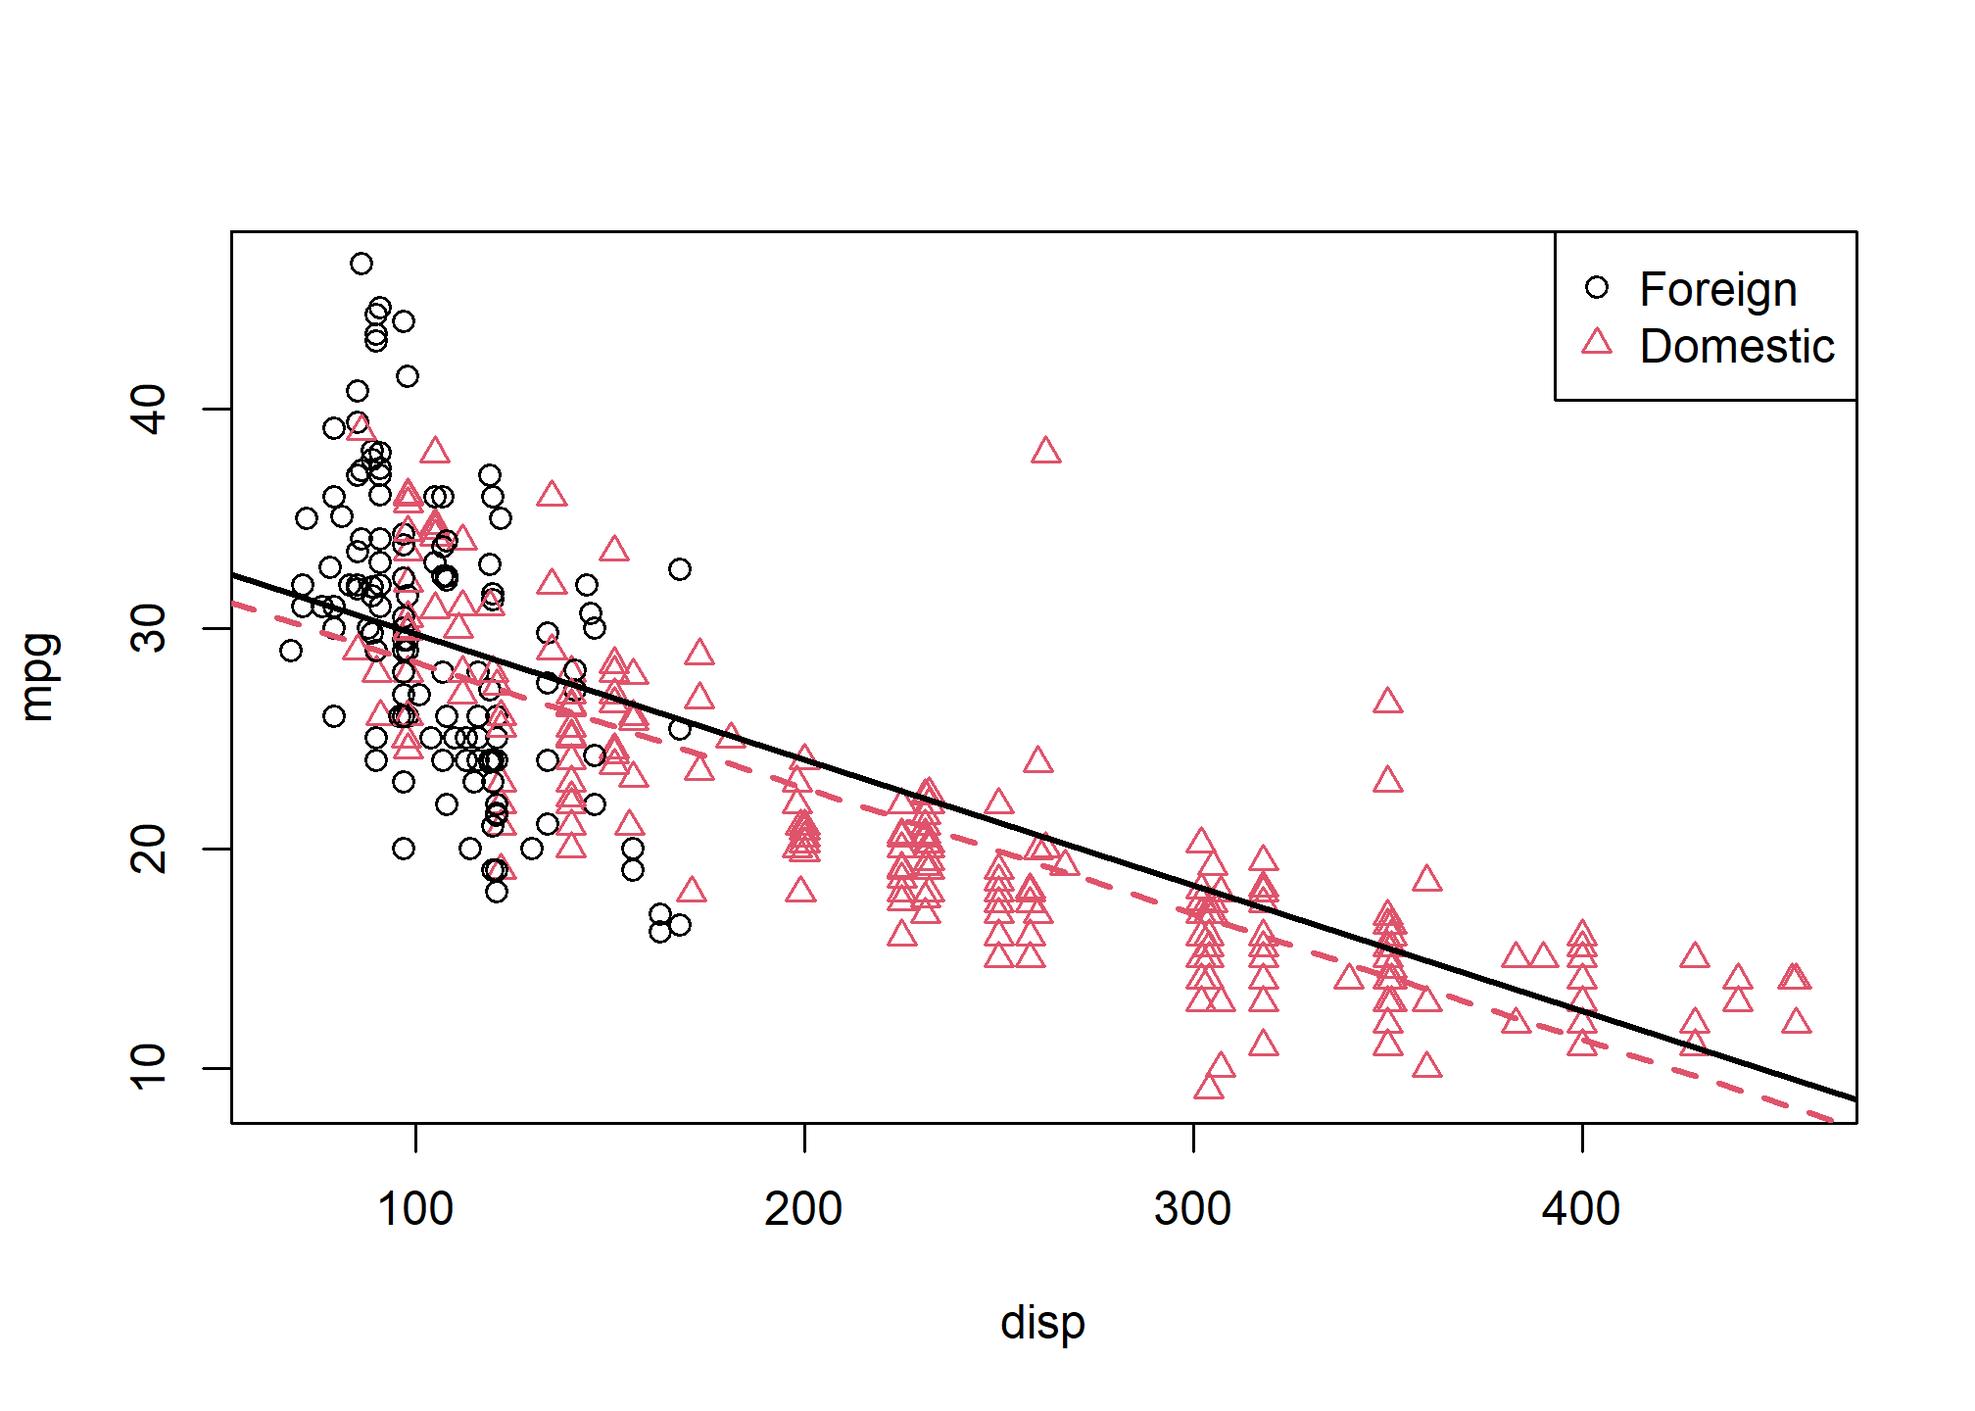
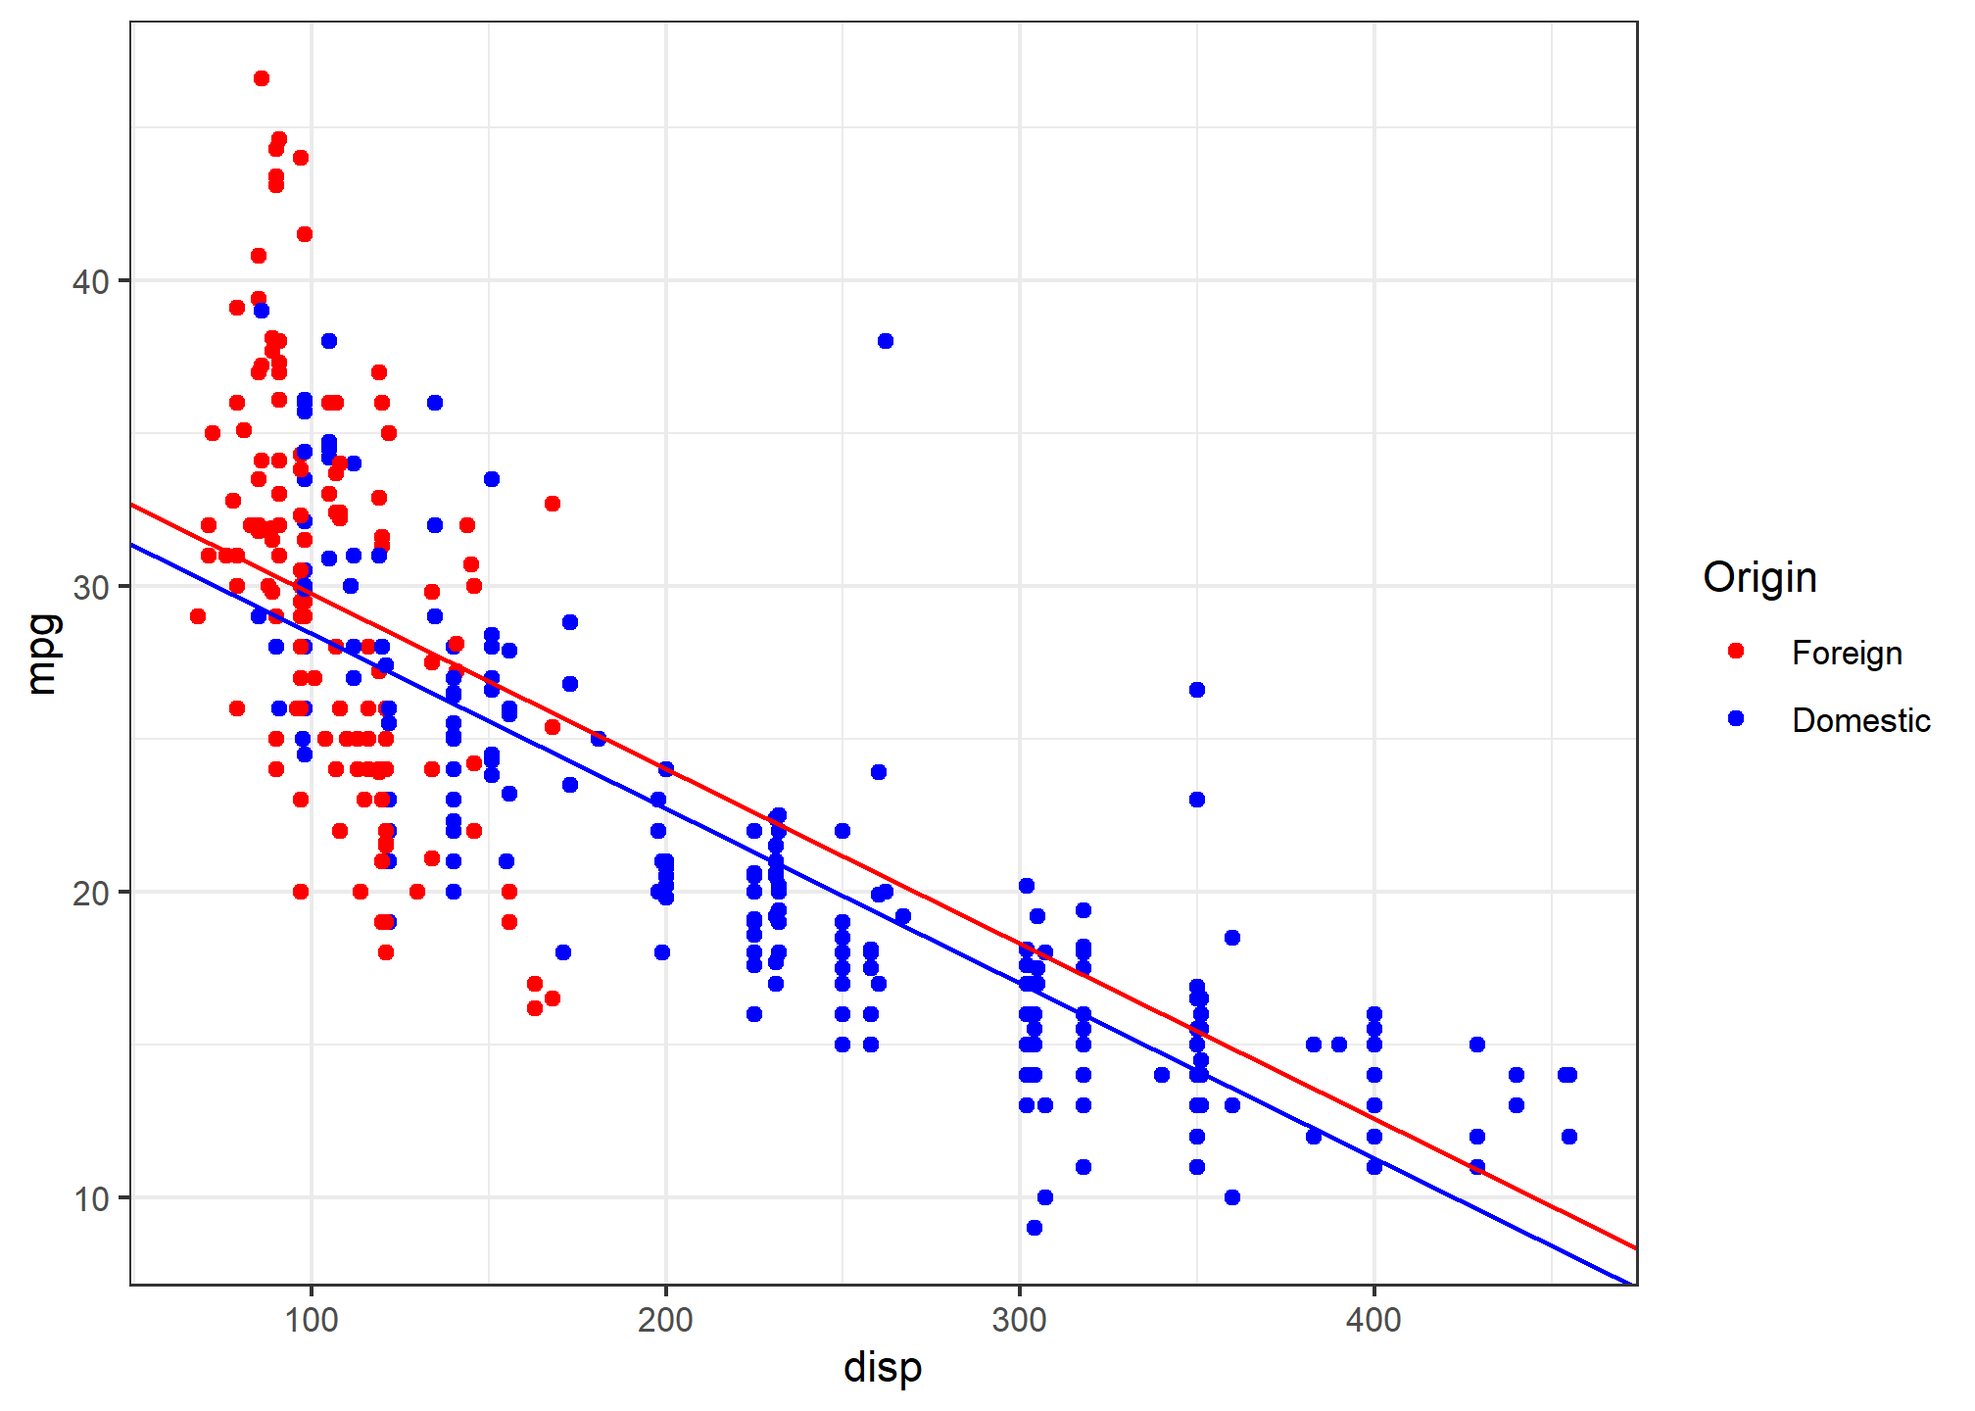
Update ex 06

diff --git a/content/example/06-example.html b/content/example/06-example.html
@@ -14,13 +14,15 @@ editor_options:
   chunk_output_type: console
 ---
 
+<script src="/rmarkdown-libs/header-attrs/header-attrs.js"></script>
 
 <div id="TOC">
 <ul>
 <li><a href="#preliminaries">Preliminaries</a></li>
 <li><a href="#dummy-variables">Dummy Variables</a></li>
 <li><a href="#interactions">Interactions</a></li>
-<li><a href="#factor-variables">Factor Variables</a><ul>
+<li><a href="#factor-variables">Factor Variables</a>
+<ul>
 <li><a href="#factors-with-more-than-two-levels">Factors with More Than Two Levels</a></li>
 </ul></li>
 <li><a href="#parameterization">Parameterization</a></li>
@@ -41,7 +43,16 @@ editor_options:
 </div>
 <div id="dummy-variables" class="section level2">
 <h2>Dummy Variables</h2>
-<p>For this example and discussion, we will briefly use the built in dataset <code>mtcars</code> before returning to our favorite <code>autompg</code> dataset. During the in-class lecture / example, I will also use much more interesting datasets. The reason to use these easy, straightforward datasets is that they make visualization of the <strong>entire dataset</strong> trivially easy. Accordingly, the <code>mtcars</code> dataset is small, so we’ll quickly take a look at the entire dataset.</p>
+<p>For this example and discussion, we will briefly use the built in dataset <code>mtcars</code> before introducing the <code>autompg</code> dataset. The reason to use these easy, straightforward datasets is that they make visualization of the <strong>entire dataset</strong> trivially easy. Accordingly, the <code>mtcars</code> dataset is small, so we’ll quickly take a look at the entire dataset.</p>
+<pre class="r"><code>library(tidyverse)</code></pre>
+<pre><code>## -- Attaching packages --------------------------------------- tidyverse 1.3.1 --</code></pre>
+<pre><code>## v ggplot2 3.3.5     v purrr   0.3.4
+## v tibble  3.1.6     v dplyr   1.0.8
+## v tidyr   1.2.0     v stringr 1.4.0
+## v readr   2.1.2     v forcats 0.5.1</code></pre>
+<pre><code>## -- Conflicts ------------------------------------------ tidyverse_conflicts() --
+## x dplyr::filter() masks stats::filter()
+## x dplyr::lag()    masks stats::lag()</code></pre>
 <pre class="r"><code>mtcars</code></pre>
 <pre><code>##                      mpg cyl  disp  hp drat    wt  qsec vs am gear carb
 ## Mazda RX4           21.0   6 160.0 110 3.90 2.620 16.46  0  1    4    4
@@ -192,7 +203,7 @@ Y = \beta_0 + \beta_1 x_1 + \beta_2 x_2 + \epsilon,
 </div>
 <div id="interactions" class="section level2">
 <h2>Interactions</h2>
-<p>To remove the “same slope” restriction, we will now discuss <strong>interaction</strong>. To illustrate this concept, we will return to the <code>autompg</code> dataset we created in the last chapter, with a few more modifications.</p>
+<p>To remove the “same slope” restriction, we will now discuss <strong>interactions</strong>. To illustrate this concept, we will use the <code>autompg</code> dataset with a few modifications.</p>
 <pre class="r"><code># read data frame from the web
 autompg = read.table(
   &quot;http://archive.ics.uci.edu/ml/machine-learning-databases/auto-mpg/auto-mpg.data&quot;,
@@ -201,27 +212,16 @@ autompg = read.table(
   stringsAsFactors = FALSE)
 # give the dataframe headers
 colnames(autompg) = c(&quot;mpg&quot;, &quot;cyl&quot;, &quot;disp&quot;, &quot;hp&quot;, &quot;wt&quot;, &quot;acc&quot;, &quot;year&quot;, &quot;origin&quot;, &quot;name&quot;)
-# remove missing data, which is stored as &quot;?&quot;
-autompg = subset(autompg, autompg$hp != &quot;?&quot;)
-# remove the plymouth reliant, as it causes some issues
-autompg = subset(autompg, autompg$name != &quot;plymouth reliant&quot;)
-# give the dataset row names, based on the engine, year and name
-rownames(autompg) = paste(autompg$cyl, &quot;cylinder&quot;, autompg$year, autompg$name)
-# remove the variable for name
-autompg = subset(autompg, select = c(&quot;mpg&quot;, &quot;cyl&quot;, &quot;disp&quot;, &quot;hp&quot;, &quot;wt&quot;, &quot;acc&quot;, &quot;year&quot;, &quot;origin&quot;))
-# change horsepower from character to numeric
-autompg$hp = as.numeric(autompg$hp)
-# create a dummary variable for foreign vs domestic cars. domestic = 1.
-autompg$domestic = as.numeric(autompg$origin == 1)
-# remove 3 and 5 cylinder cars (which are very rare.)
-autompg = autompg[autompg$cyl != 5,]
-autompg = autompg[autompg$cyl != 3,]
-# the following line would verify the remaining cylinder possibilities are 4, 6, 8
-#unique(autompg$cyl)
-# change cyl to a factor variable
-autompg$cyl = as.factor(autompg$cyl)</code></pre>
+
+
+autompg = autompg %&gt;%
+  filter(hp !=&#39;?&#39; &amp; name !=&#39;plymouth reliant&#39;) %&gt;% # the reliant causes some issues
+  mutate(hp = as.numeric(hp),
+         domestic = as.numeric(origin==1)) %&gt;%
+  filter(!cyl %in% c(5,3)) %&gt;%
+  mutate(cyl = as.factor(cyl))</code></pre>
 <pre class="r"><code>str(autompg)</code></pre>
-<pre><code>## &#39;data.frame&#39;:    383 obs. of  9 variables:
+<pre><code>## &#39;data.frame&#39;:    383 obs. of  10 variables:
 ##  $ mpg     : num  18 15 18 16 17 15 14 14 14 15 ...
 ##  $ cyl     : Factor w/ 3 levels &quot;4&quot;,&quot;6&quot;,&quot;8&quot;: 3 3 3 3 3 3 3 3 3 3 ...
 ##  $ disp    : num  307 350 318 304 302 429 454 440 455 390 ...
@@ -230,6 +230,7 @@ autompg$cyl = as.factor(autompg$cyl)</code></pre>
 ##  $ acc     : num  12 11.5 11 12 10.5 10 9 8.5 10 8.5 ...
 ##  $ year    : int  70 70 70 70 70 70 70 70 70 70 ...
 ##  $ origin  : int  1 1 1 1 1 1 1 1 1 1 ...
+##  $ name    : chr  &quot;chevrolet chevelle malibu&quot; &quot;buick skylark 320&quot; &quot;plymouth satellite&quot; &quot;amc rebel sst&quot; ...
 ##  $ domestic: num  1 1 1 1 1 1 1 1 1 1 ...</code></pre>
 <p>We’ve removed cars with <code>3</code> and <code>5</code> cylinders , as well as created a new variable <code>domestic</code> which indicates whether or not a car was built in the United States. Removing the <code>3</code> and <code>5</code> cylinders is simply for ease of demonstration later in the chapter and would not be done in practice. The new variable <code>domestic</code> takes the value <code>1</code> if the car was built in the United States, and <code>0</code> otherwise, which we will refer to as “foreign.” (We are arbitrarily using the United States as the reference point here.) We have also made <code>cyl</code> and <code>origin</code> into factor variables, which we will discuss later.</p>
 <p>We’ll now be concerned with three variables: <code>mpg</code>, <code>disp</code>, and <code>domestic</code>. We will use <code>mpg</code> as the response. We can fit a model,</p>
@@ -250,18 +251,23 @@ x_2 =
   \end{cases}
 \]</span></p>
 <p>We will fit this model, extract the slope and intercept for the “two lines,” plot the data and add the lines.</p>
-<pre class="r"><code>mpg_disp_add = lm(mpg ~ disp + domestic, data = autompg)
+<pre class="r"><code>mpg_disp_add = lm(mpg ~ disp + as.factor(domestic), data = autompg)
 
 int_for = coef(mpg_disp_add)[1]
 int_dom = coef(mpg_disp_add)[1] + coef(mpg_disp_add)[3]
 
 slope_for = coef(mpg_disp_add)[2]
-slope_dom = coef(mpg_disp_add)[2]
+slope_dom = coef(mpg_disp_add)[2] #--&gt; same slope!
 
-plot(mpg ~ disp, data = autompg, col = domestic + 1, pch = domestic + 1)
-abline(int_for, slope_for, col = 1, lty = 1, lwd = 2) # add line for foreign cars
-abline(int_dom, slope_dom, col = 2, lty = 2, lwd = 2) # add line for domestic cars
-legend(&quot;topright&quot;, c(&quot;Foreign&quot;, &quot;Domestic&quot;), pch = c(1, 2), col = c(1, 2))</code></pre>
+ggplot(autompg, aes(x = disp, y = mpg, col = as.factor(domestic))) + 
+  geom_point() +
+  geom_abline(intercept = int_dom, 
+              slope = slope_dom, col = &#39;blue&#39;) +
+  geom_abline(intercept = int_for,
+              slope = slope_for, col = &#39;red&#39;) +
+  labs(color = &#39;Origin&#39;) +
+  scale_color_manual(labels = c(&#39;Foreign&#39;,&#39;Domestic&#39;), values = c(&#39;red&#39;,&#39;blue&#39;)) +
+  theme_bw()</code></pre>
 <p><img src="/example/06-example_files/figure-html/unnamed-chunk-14-1.png" width="672" /></p>
 <p>This is a model that allows for two <em>parallel</em> lines, meaning the <code>mpg</code> can be different on average between foreign and domestic cars of the same engine displacement, but the change in average <code>mpg</code> for an increase in displacement is the same for both. We can see this model isn’t doing very well here. The red line fits the red points fairly well, but the black line isn’t doing very well for the black points, it should clearly have a more negative slope. Essentially, we would like a model that allows for two different slopes.</p>
 <p>Consider the following model,</p>
@@ -327,29 +333,22 @@ do_not_do_this = lm(mpg ~ disp + domestic + x3, data = autompg) # THIS CODE NOT 
 H_0: \beta_3 = 0.
 \]</span></p>
 <p>In this case, testing for <span class="math inline">\(\beta_3 = 0\)</span> is testing for two lines with parallel slopes versus two lines with possibly different slopes. The <code>disp:domestic</code> line in the <code>summary()</code> output uses a <span class="math inline">\(t\)</span>-test to perform the test.</p>
-<p>We could also use an ANOVA <span class="math inline">\(F\)</span>-test. The additive model, without interaction is our null model, and the interaction model is the alternative.</p>
-<pre class="r"><code>anova(mpg_disp_add, mpg_disp_int)</code></pre>
-<pre><code>## Analysis of Variance Table
-## 
-## Model 1: mpg ~ disp + domestic
-## Model 2: mpg ~ disp + domestic + disp:domestic
-##   Res.Df    RSS Df Sum of Sq      F    Pr(&gt;F)    
-## 1    380 7714.0                                  
-## 2    379 7032.6  1    681.36 36.719 3.294e-09 ***
-## ---
-## Signif. codes:  0 &#39;***&#39; 0.001 &#39;**&#39; 0.01 &#39;*&#39; 0.05 &#39;.&#39; 0.1 &#39; &#39; 1</code></pre>
-<p>Again we see this test has the same p-value as the <span class="math inline">\(t\)</span>-test. Also the p-value is extremely low, so between the two, we choose the interaction model.</p>
 <pre class="r"><code>int_for = coef(mpg_disp_int)[1]
 int_dom = coef(mpg_disp_int)[1] + coef(mpg_disp_int)[3]
 
 slope_for = coef(mpg_disp_int)[2]
 slope_dom = coef(mpg_disp_int)[2] + coef(mpg_disp_int)[4]</code></pre>
 <p>Here we again calculate the slope and intercepts for the two lines for use in plotting.</p>
-<pre class="r"><code>plot(mpg ~ disp, data = autompg, col = domestic + 1, pch = domestic + 1)
-abline(int_for, slope_for, col = 1, lty = 1, lwd = 2) # line for foreign cars
-abline(int_dom, slope_dom, col = 2, lty = 2, lwd = 2) # line for domestic cars
-legend(&quot;topright&quot;, c(&quot;Foreign&quot;, &quot;Domestic&quot;), pch = c(1, 2), col = c(1, 2))</code></pre>
-<p><img src="/example/06-example_files/figure-html/unnamed-chunk-22-1.png" width="672" /></p>
+<pre class="r"><code>ggplot(autompg, aes(x = disp, y = mpg, col = as.factor(domestic))) + 
+  geom_point() +
+  geom_abline(intercept = int_dom, 
+              slope = slope_dom, col = &#39;blue&#39;) +
+  geom_abline(intercept = int_for,
+              slope = slope_for, col = &#39;red&#39;) +
+  labs(color = &#39;Origin&#39;) +
+  scale_color_manual(labels = c(&#39;Foreign&#39;,&#39;Domestic&#39;), values = c(&#39;red&#39;,&#39;blue&#39;)) +
+  theme_bw()</code></pre>
+<p><img src="/example/06-example_files/figure-html/unnamed-chunk-21-1.png" width="672" /></p>
 <p>We see that these lines fit the data much better, which matches the result of our tests.</p>
 <p>So far we have only seen interaction between a categorical variable (<code>domestic</code>) and a numerical variable (<code>disp</code>). While this is easy to visualize, since it allows for different slopes for two lines, it is not the only type of interaction we can use in a model. We can also consider interactions between two numerical variables.</p>
 <p>Consider the model,</p>
@@ -395,18 +394,8 @@ summary(mpg_disp_int_hp)</code></pre>
 <p><span class="math display">\[
 H_0: \beta_3 = 0.
 \]</span></p>
-<p>Again, we see a very low p-value so we reject the null (additive model) in favor of the interaction model. Again, there is an equivalent <span class="math inline">\(F\)</span>-test.</p>
-<pre class="r"><code>anova(mpg_disp_add_hp, mpg_disp_int_hp)</code></pre>
-<pre><code>## Analysis of Variance Table
-## 
-## Model 1: mpg ~ disp + hp
-## Model 2: mpg ~ disp * hp
-##   Res.Df    RSS Df Sum of Sq      F    Pr(&gt;F)    
-## 1    380 7576.6                                  
-## 2    379 5754.2  1    1822.3 120.03 &lt; 2.2e-16 ***
-## ---
-## Signif. codes:  0 &#39;***&#39; 0.001 &#39;**&#39; 0.01 &#39;*&#39; 0.05 &#39;.&#39; 0.1 &#39; &#39; 1</code></pre>
-<p>We can take a closer look at the coefficients of our fitted interaction model.</p>
+<p>Again, we see a very low p-value so we reject the null (additive model) in favor of the interaction model.
+We can take a closer look at the coefficients of our fitted interaction model.</p>
 <pre class="r"><code>coef(mpg_disp_int_hp)</code></pre>
 <pre><code>##   (Intercept)          disp            hp       disp:hp 
 ## 52.4081997848 -0.1001737655 -0.2198199720  0.0005658269</code></pre>
@@ -453,7 +442,7 @@ head(autompg$origin)</code></pre>
 <pre class="r"><code>autompg$origin = as.factor(autompg$origin)</code></pre>
 <p>Now when we check the structure of the <code>autompg</code> dataset, we see that <code>origin</code> is a factor variable.</p>
 <pre class="r"><code>str(autompg)</code></pre>
-<pre><code>## &#39;data.frame&#39;:    383 obs. of  9 variables:
+<pre><code>## &#39;data.frame&#39;:    383 obs. of  10 variables:
 ##  $ mpg     : num  18 15 18 16 17 15 14 14 14 15 ...
 ##  $ cyl     : Factor w/ 3 levels &quot;4&quot;,&quot;6&quot;,&quot;8&quot;: 3 3 3 3 3 3 3 3 3 3 ...
 ##  $ disp    : num  307 350 318 304 302 429 454 440 455 390 ...
@@ -462,6 +451,7 @@ head(autompg$origin)</code></pre>
 ##  $ acc     : num  12 11.5 11 12 10.5 10 9 8.5 10 8.5 ...
 ##  $ year    : int  70 70 70 70 70 70 70 70 70 70 ...
 ##  $ origin  : Factor w/ 2 levels &quot;domestic&quot;,&quot;foreign&quot;: 1 1 1 1 1 1 1 1 1 1 ...
+##  $ name    : chr  &quot;chevrolet chevelle malibu&quot; &quot;buick skylark 320&quot; &quot;plymouth satellite&quot; &quot;amc rebel sst&quot; ...
 ##  $ domestic: num  1 1 1 1 1 1 1 1 1 1 ...</code></pre>
 <p>Factor variables have <strong>levels</strong> which are the possible values (categories) that the variable may take, in this case foreign or domestic.</p>
 <pre class="r"><code>levels(autompg$origin)</code></pre>
@@ -594,7 +584,7 @@ abline(int_6cyl, slope_all_cyl, col = plot_colors[2], lty = 2, lwd = 2)
 abline(int_8cyl, slope_all_cyl, col = plot_colors[3], lty = 3, lwd = 2)
 legend(&quot;topright&quot;, c(&quot;4 Cylinder&quot;, &quot;6 Cylinder&quot;, &quot;8 Cylinder&quot;),
        col = plot_colors, lty = c(1, 2, 3), pch = c(1, 2, 3))</code></pre>
-<p><img src="/example/06-example_files/figure-html/unnamed-chunk-36-1.png" width="672" /></p>
+<p><img src="/example/06-example_files/figure-html/unnamed-chunk-34-1.png" width="672" /></p>
 <p>On this plot, we have</p>
 <ul>
 <li>4 Cylinder: orange dots, solid orange line.</li>
@@ -646,7 +636,7 @@ abline(int_6cyl, slope_6cyl, col = plot_colors[2], lty = 2, lwd = 2)
 abline(int_8cyl, slope_8cyl, col = plot_colors[3], lty = 3, lwd = 2)
 legend(&quot;topright&quot;, c(&quot;4 Cylinder&quot;, &quot;6 Cylinder&quot;, &quot;8 Cylinder&quot;),
        col = plot_colors, lty = c(1, 2, 3), pch = c(1, 2, 3))</code></pre>
-<p><img src="/example/06-example_files/figure-html/unnamed-chunk-38-1.png" width="672" /></p>
+<p><img src="/example/06-example_files/figure-html/unnamed-chunk-36-1.png" width="672" /></p>
 <p>This looks much better! We can see that for medium displacement cars, 6 cylinder cars now perform better than 8 cylinder cars, which seems much more reasonable than before.</p>
 <p>To completely justify the interaction model (i.e., a unique slope for each <code>cyl</code> level) compared to the additive model (single slope), we can perform an <span class="math inline">\(F\)</span>-test. Notice first, that there is no <span class="math inline">\(t\)</span>-test that will be able to do this since the difference between the two models is not a single parameter.</p>
 <p>We will test,</p>
@@ -893,7 +883,7 @@ H_0: \beta_7 = 0.
 <li>Full Model: <span class="math inline">\(Y = \beta_0 + \beta_1 x_1 + \beta_2 x_2 + \beta_3 x_3 + \beta_4 x_1 x_2 + \beta_5 x_1 x_3 + \beta_6 x_2 x_3 + \beta_7 x_1 x_2 x_3 + \epsilon\)</span></li>
 <li>Null Model: <span class="math inline">\(Y = \beta_0 + \beta_1 x_1 + \beta_2 x_2 + \beta_3 x_3 + \beta_4 x_1 x_2 + \beta_5 x_1 x_3 + \beta_6 x_2 x_3 + \epsilon\)</span></li>
 </ul>
-<p>We fit the null model in <code>R</code> as <code>two_way_int_mod</code>, then use <code>anova()</code> to perform an <span class="math inline">\(F\)</span>-test as usual.</p>
+<p>We fit the null model in <code>R</code> as <code>two_way_int_mod</code>. One way of comparing the fit of models (which accounts for the fact that one model is more “flexible” than another) is to use <code>anova</code>. The null hypothesis of the <code>anova</code> is that the two models explain the same amount of variation in the dependent variable (<code>mpg</code>). If we reject the F-test in the <code>anova</code> (if the p-value is small), then the more flexible model is actually explaining more.</p>
 <pre class="r"><code>two_way_int_mod = lm(mpg ~ disp * hp + disp * domestic + hp * domestic, data = autompg)
 #two_way_int_mod = lm(mpg ~ (disp + hp + domestic) ^ 2, data = autompg)
 anova(two_way_int_mod, big_model)</code></pre>
